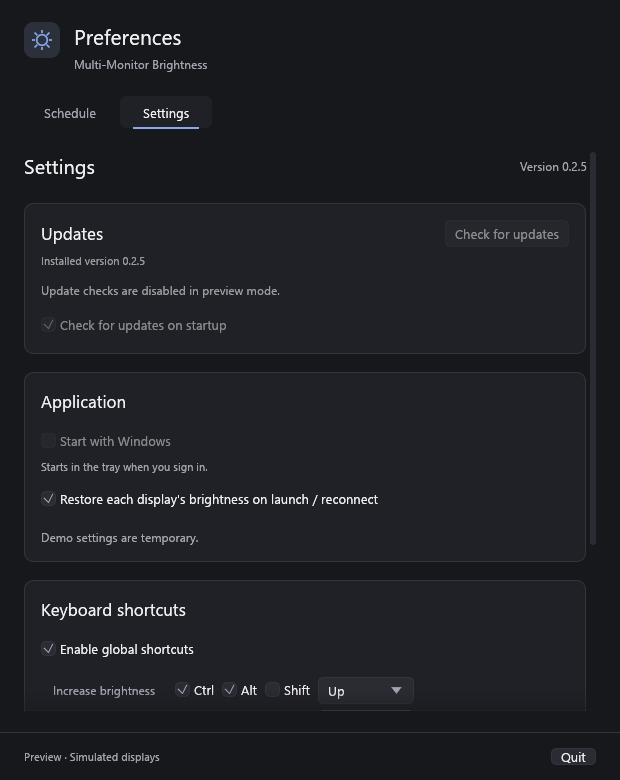
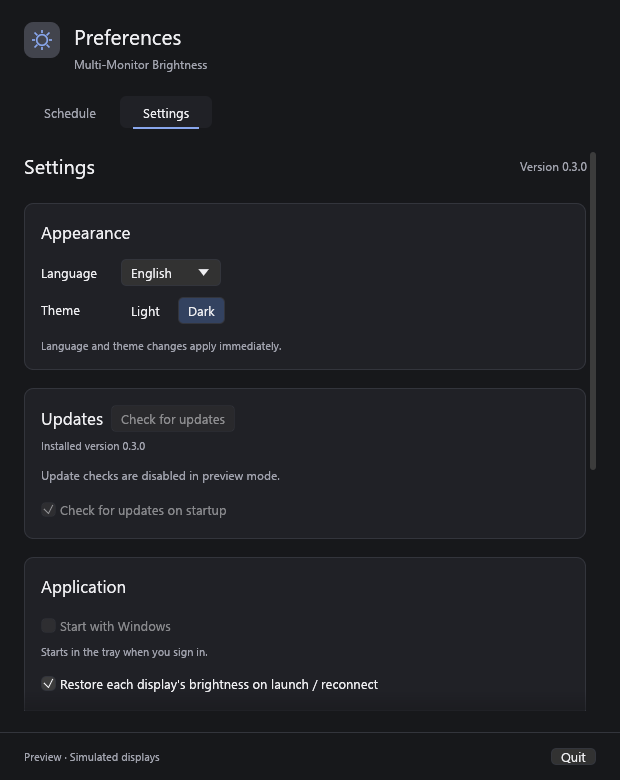
Verify localized themes and refresh real application screenshots

diff --git a/src/app.rs b/src/app.rs
@@ -1095,7 +1095,7 @@ impl MultiMonitorBrightness {
                         });
                     ui.end_row();
                     ui.label(tr(ui, "Theme"));
-                    ui.horizontal_wrapped(|ui| {
+                    ui.horizontal(|ui| {
                         ui.selectable_value(
                             &mut self.settings.theme,
                             Theme::Light,

diff --git a/docs/verification-v0.3.0.md b/docs/verification-v0.3.0.md
@@ -1,0 +1,35 @@
+# Version 0.3.0 verification
+
+## Automated checks
+
+- `cargo fmt --check` and `git diff --check` passed.
+- `cargo clippy --locked --offline --all-targets --all-features -- -D warnings` passed.
+- `cargo test --locked --offline --all-targets --all-features`: 23 passed, 2 intentionally ignored. The ignored checks read real monitor hardware or write an isolated Windows registry fixture.
+- The translation catalog contains 136 explicit English message keys with complete Russian, French, German, Spanish, and Italian values. Tests reject empty translations and changed message arguments. Persistence tests cover older settings and all six languages with a saved light theme.
+- Optimized Windows x64 builds passed both with developer diagnostics enabled and with the normal release features.
+- `MultiMonitorBrightness-v0.3.0.exe` has matching 0.3.0 file/product version resources. All eight packaged icon sizes (16 through 256 pixels) loaded and rendered through the native Windows icon-resource path without executing the EXE.
+
+## Actual interface captures
+
+The application rendered and saved its own client-area bitmaps using the production CPU renderer and Windows GDI host. Each isolated `--demo` capture completed successfully and exited within an external timeout. Preview mode used simulated displays, disabled update requests, and did not load or save user preferences or change physical brightness. No mouse or keyboard input was injected.
+
+Reviewed captures include English dark Settings, brightness popup and Schedule; Russian light Settings; German light brightness popup; and French light Schedule at 150% UI scale. The scaled French screen scrolls to keep the footer and controls accessible. The first review found that the theme choices wrapped onto two lines; they now remain together in one compact row.
+
+The README contains refreshed primary, Settings and Schedule captures plus Russian light Settings. These images establish application layout, translated labels, theme contrast, and real font rendering. They do not establish the appearance of the Windows title bar, taskbar, or native context menu.
+
+## Rendering and lifecycle
+
+The bounded optimized renderer regression used simulated displays, three seconds of warm-up and a five-second counter sample per state. CPU was sampled separately over three seconds and is expressed as a percentage of one logical core. The machine exposed 20 logical processors.
+
+| State | CPU, one core | Application rasterizations | UI passes | Hidden paints |
+| --- | ---: | ---: | ---: | ---: |
+| Settings, settled | 0.00% | 0 | 0 | 0 |
+| Brightness popup, settled | 1.56% | 0 | 0 | 0 |
+| Hidden startup | 0.00% | 0 | 0 | 0 |
+| Controlled slider movement | 9.88% | 126 | 952 | 0 |
+
+The hidden preferences viewport performed zero UI passes during the slider workload. The active popup's frame work had a measured median of 0.24 ms and p95 of 1.26 ms. The settled and hidden cases produced no application scene reconstruction, rasterization or presentation during their counter samples. No OpenGL or DirectX graphics modules were loaded in the diagnostic processes; the source and compiled dependency path use CPU rasterization and Windows GDI presentation. Windows desktop composition remains separate.
+
+A separate optimized native tray callback regression passed 19 checks: quiet startup, popup open/close/reopen, brightness commands while hidden, Settings and Schedule, minimize/restore beside the tray, hidden schedule changes and restoration, and Quit. These checks used the installed callbacks and real disposable windows with simulated monitors, without injected OS input.
+
+Normal hardware compatibility, subjective mouse latency on other machines, and live installation of an Internet update were not exercised. The optional diagnostics were removed from the normal release build after verification. Existing startup-update opt-out and user-initiated installation behavior remain implemented.

diff --git a/README.md b/README.md
@@ -18,9 +18,13 @@ Actual application screenshots captured in preview mode with simulated monitors.
 
 ![Brightness popup with shared and individual monitor sliders](docs/screenshots/brightness.png)
 
-**Settings:** installed version, update checks, Windows startup, and keyboard shortcuts.
+**Settings:** language, theme, installed version, update checks, and Windows startup. Scroll for keyboard shortcuts.
 
-![Settings window with Updates, Application, and Keyboard shortcuts](docs/screenshots/settings.png)
+![Settings window with Appearance, Updates, and Application controls](docs/screenshots/settings.png)
+
+**Light theme and Russian:** the same real Settings screen with immediate language and appearance preferences.
+
+![Russian Settings window with the light theme selected](docs/screenshots/settings-light-russian.png)
 
 **Schedule:** configure evening dimming and morning brightness restoration.
 
@@ -154,6 +158,8 @@ Settings are written to a same-directory temporary file, synced, then replaced. 
 ## Status
 
 Current version: 0.3.0. Automated tests cover brightness scaling, schedule boundaries, shortcut validation, persistence, queued monitor operations, popup placement, release selection, and update verification. Hardware compatibility is not yet certified.
+
+The [0.3.0 verification notes](docs/verification-v0.3.0.md) record localization/settings tests, real screenshots in both themes, optimized renderer measurements, native tray callback checks, and remaining hardware/manual scope.
 
 Live-window regression checks the brightness popup, separate preferences, reopening and minimizing windows, hidden brightness commands, background dimming/restoration, and Quit. Run `scripts\test-tray.ps1` and `scripts\test-tray.ps1 -Startup` on an interactive Windows desktop. The checks use simulated monitors and the installed menu callback, without injecting mouse/keyboard input or changing physical brightness.
 

diff --git a/release-notes/v0.3.0.md b/release-notes/v0.3.0.md
@@ -13,7 +13,9 @@
 
 ### Validation
 
-Catalog checks verify complete translations and preserved message arguments. Persistence checks cover older settings and every supported language with a saved light theme. Automated checks and visual evidence for this version are recorded in the accompanying verification notes.
+Formatting, strict all-feature Clippy, 23 automated tests, and optimized Windows x64 builds passed. Two optional hardware/registry checks remain intentionally skipped. Catalog checks verify complete translations and preserved message arguments; persistence checks cover older settings and every supported language with a saved light theme.
+
+Actual application captures were reviewed in both themes, including Russian, German, and French text. Bounded CPU/GDI renderer checks produced zero settled-idle rasterizations and zero hidden paints. A separate native tray callback regression passed 19 lifecycle checks with simulated monitors. See the [verification notes](https://github.com/siarheisinelnikau/multi-monitor-brightness/blob/v0.3.0/docs/verification-v0.3.0.md) for measurements and remaining hardware/manual scope.
 
 Download **MultiMonitorBrightness-v0.3.0.exe** for Windows 10/11 x64, or use **Settings → Updates → Download and install** from v0.2.1 or newer. Existing settings are preserved. Version 0.2.0 requires the previously documented one-time manual upgrade because its updater expects the old asset name.
 
